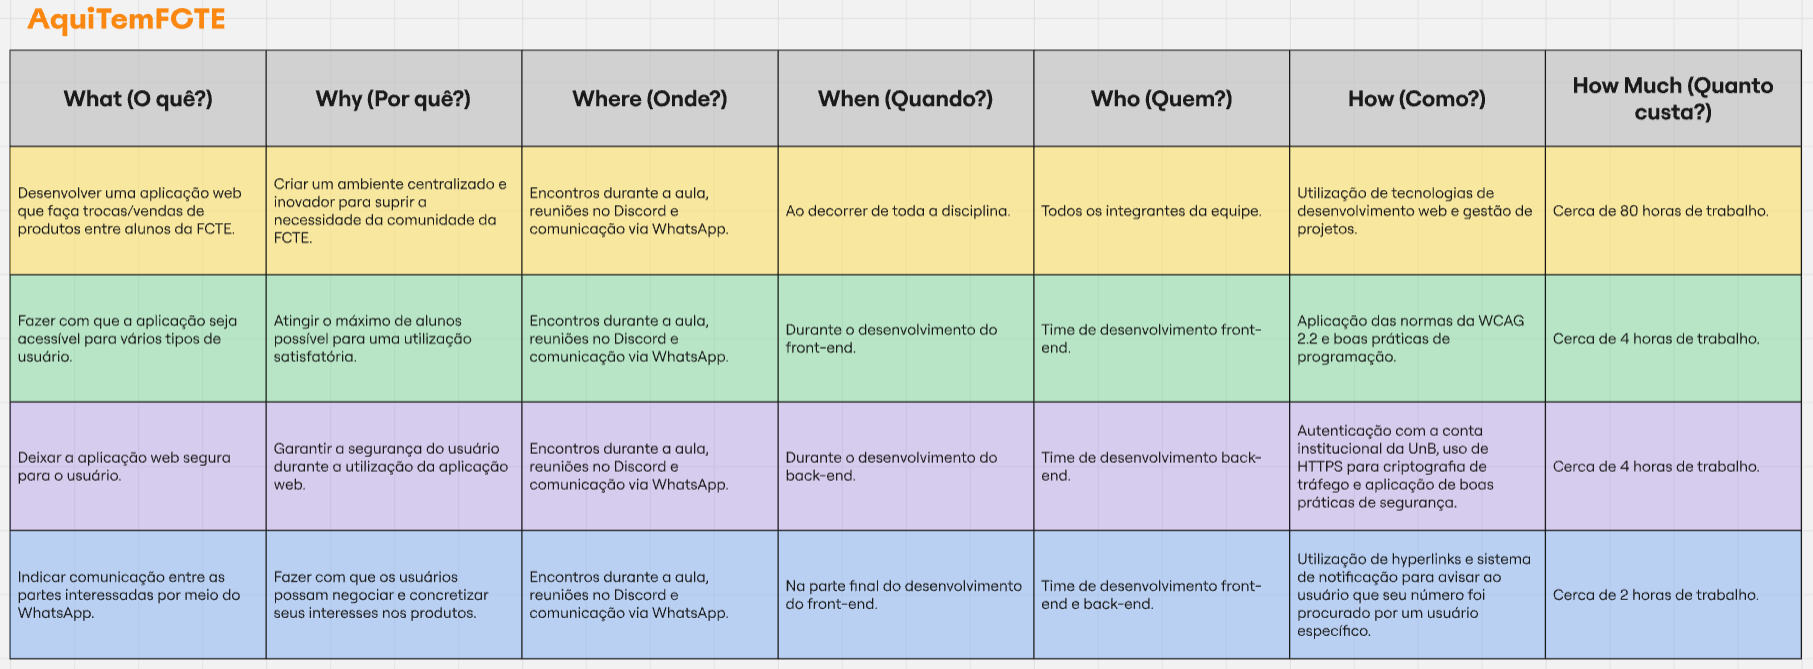
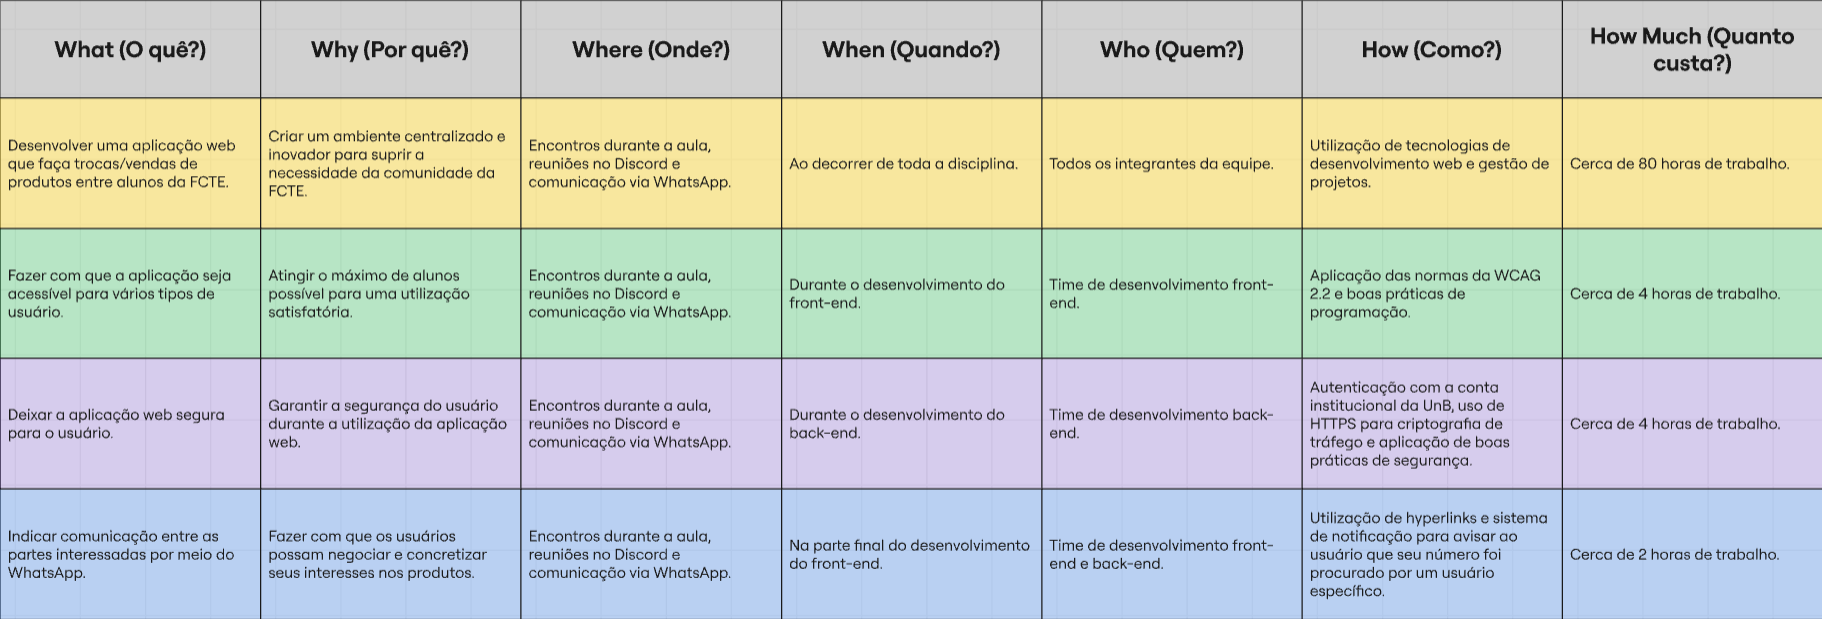
docs(5W2H): correções nas imagens e textos que envolvem o modelo 5W2H

diff --git a/docs/Base/1.2.3.5W2H.md b/docs/Base/1.2.3.5W2H.md
@@ -26,7 +26,7 @@ img{
 
 ## Introdução
 
-O 5W2H é uma ferramenta de planejamento e gestão que auxilia na organização de atividades, projetos e processos de maneira clara e objetiva. Seu nome faz referência às iniciais em inglês das sete perguntas fundamentais que orientam a análise:
+O 5W2H é uma ferramenta de planejamento e gestão que facilita a organização de atividades, projetos e processos de forma clara e objetiva, podendo ser aplicada em vários contextos, como na gamificação. Seu nome faz referência às iniciais em inglês das sete perguntas fundamentais/dimensões que orientam a análise:
 
 - What (O quê?) – Define a atividade ou tarefa a ser realizada.
 - Why (Por quê?) – Explica a justificativa ou motivação da ação.
@@ -36,17 +36,17 @@ O 5W2H é uma ferramenta de planejamento e gestão que auxilia na organização 
 - How (Como?) – Detalha o método ou forma de execução.
 - How much (Quanto custa?) – Estima os recursos necessários.
 
-No contexto deste trabalho de Arquitetura e Desenho de Software (UnB - 2025.2), a ferramenta foi aplicada para organizar as ações relacionadas ao desenvolvimento do sistema AquiTemFCTE, assegurando que a construção do projeto ocorra de forma organizada e coesa.
+No contexto deste trabalho de Arquitetura e Desenho de Software (UnB - 2025.2), o framework foi utilizado para estruturar as ações relacionadas ao desenvolvimento do sistema AquiTemFCTE, assegurando que o progresso do projeto ocorra de maneira organizada e coesa.
 
 ## Metodologia
 
-Para a integração do modelo de gestão 5W2H, os integrantes refletiram as motivações e ideias para o projeto, utilizando a técnica como um guia para a construção da aplicação. O processo seguiu as seguintes etapas:
+Para integrar o modelo de gestão 5W2H, os integrantes refletiram sobre as motivações e ideias do projeto, utilizando a técnica como um guia para a construção da aplicação. O processo seguiu as seguintes etapas:
 
-- **Análise dos documentos da Design Sprint**: foram revisados os materiais produzidos durante a [Design Sprint](/Base/1.1.DesignSprint.md) da disciplina Arquitetura e Desenho de Software (UnB – 2025.2), buscando identificar o cerne do projeto, de maneira a auxiliar na organização de atividades.
+- **Análise dos documentos da Design Sprint**: foram revisados os materiais produzidos durante a [Design Sprint](/Base/1.1.DesignSprint.md) da disciplina Arquitetura e Desenho de Software (UnB – 2025.2) em sua fase de [Mapping](/Base/1.1.1.Mapping.md), buscando identificar e compreender os aspectos centrais do projeto.
 
-- **Discussão acerca dos pontos essenciais a serem comtemplados no modelo**: Os membros responsáveis argumentaram os tópicos a serem abordados na construção do artefato, considerando a análise prévia dos documentos e seus respectivos níveis de importância.
+- **Discussão acerca dos pontos essenciais a serem abordados no modelo**: os membros responsáveis discutiram os tópicos que deveriam ser incluídos na construção do artefato, considerando a análise prévia dos documentos feita na etapa anterior.
 
-- **Implementação dos pontos**: Através das perguntas propostas pelo 5W2H, foi criada uma tabela contendo as principais informações para assegurar clareza nos objetivos, métodos de execução e responsabilidades.
+- **Implementação dos pontos**: a partir das perguntas propostas pelo 5W2H, foi criada uma tabela contendo as principais informações, buscando organizar as atividades e garantir clareza nos objetivos, métodos de execução e responsabilidades.
 
 ### Participantes
 
@@ -59,18 +59,20 @@ Os participantes da elaboração do artefato estão descritos na Tabela 1 abaixo
 | 23/1026302  | Caio Sabino       |
 | 23/1011220  | Davi Camilo       |
 
-## Tabela com o 5W2H
+## Tabela 5W2H
 
-A tabela a seguir mostra os planos de ação definidos para a construção do projeto, incluindo todas as perguntas propostas pelo framework em questão:
+A tabela a seguir apresenta os planos de ação definidos para a construção do projeto, incluindo todas as perguntas propostas pela ferramenta de planejamento em questão:
 
-![5W2H](../assets/AqDsSw5W2H.jpg)
-<p style="text-align: center;">Figura 2: 5W2H </p>
+<img src="../assets/AqDsSw5W2H.png" alt="5W2H" width="120%" />
+<p style="text-align: center;">Figura 2: Tabela 5W2H </p>
 
 ## Referências
 
-> KLOCK, Ana Carolina Tomé; GASPARINI, Isabela. Um framework para projetar, desenvolver e avaliar a gamificação centrada no usuário. Joinville: UDESC, PPGCA/PPGECMT, [s.d.].
+> KLOCK, Ana Carolina Tomé; GASPARINI, Isabela. **Um framework para projetar, desenvolver e avaliar a gamificação centrada no usuário**. Joinville: UDESC, PPGCA/PPGECMT, [s.d.].
 
 ## Histórico de Versões
+
 | Versão | Data | Descrição | Autor(es) | Revisor(es) | Detalhes da Revisão |
 | -- | -- | -- | -- | -- | -- |
 | 1.0 | 01/09/2025 | Criação do Documento e adição das informações do 5W2H | [Davi Camilo](https://github.com/Davicamilo23) | [Caio Sabino](https://github.com/caiomsabino) | 01/09/2025 |
+| 1.1 | 01/09/2025 | Pequenas alterações no texto | [Davi Camilo](https://github.com/Davicamilo23) | [Caio Sabino](https://github.com/caiomsabino) | 01/09/2025 |

diff --git a/docs/Base/1.1.2.Sketch.md b/docs/Base/1.1.2.Sketch.md
@@ -222,10 +222,10 @@ Os detalhes sobre o processo de desenvolvimento deste Diagrama de Ishikawa, que 
 
 ## 5W2H
 
-![5W2H](../assets/AqDsSw5W2H.jpg)
-<p style="text-align: center;">Figura 2: 5W2H </p>
+<img src="../assets/AqDsSw5W2H.png" alt="5W2H" width="120%" />
+<p style="text-align: center;">Figura 2: Tabela 5W2H </p>
 
-Os detalhes sobre o processo de desenvolvimento deste 5W2H, incluindo uma explicação do método e a metodologia utilizada, estão documentados no tópico [1.2.3. 5W2H](/Base/1.2.3.5W2H.md). A partir deste tópico, será possível compreender as ideias utilizadas para a construção do artefato, de maneira a incluir os pontos principais escolhidos a serem trabalhados no projeto.
+Os detalhes sobre o processo de desenvolvimento do 5W2H, incluindo uma explicação do método e da metodologia adotada, estão documentados no tópico [1.2.3. 5W2H](/Base/1.2.3.5W2H.md). A partir deste tópico, será possível compreender as ideias aplicadas na construção do artefato, que incluíram os pontos principais escolhidos para serem trabalhados no projeto.
 
 ## Léxico
 
@@ -238,3 +238,4 @@ Os detalhes sobre o processo de desenvolvimento deste 5W2H, incluindo uma explic
 | 1.0 | 31/08/2025 | Criação do Documento e desenvolvimento do Tópico | [Daniel Rodrigues](https://github.com/DanielRogs) | [Lucas Guimarães](https://github.com/lcsgborges) | 31/08/2025 |
 | 1.1 | 31/08/2025 | Correções de Hyperlinks | [Daniel Rodrigues](https://github.com/DanielRogs) | [Ludmila Aysha](https://github.com/ludmilaaysha) | 31/08/2025 |
 | 1.2 | 01/09/2025 | Adição do 5W2H | [Davi Camilo](https://github.com/Davicamilo23) | [Daniel Rodrigues](https://github.com/DanielRogs) | 01/09/2025 |
+| 1.3 | 01/09/2025 | Pequenas mudanças no texto do 5W2H | [Davi Camilo](https://github.com/Davicamilo23) | [Daniel Rodrigues](https://github.com/DanielRogs) | 01/09/2025 |
